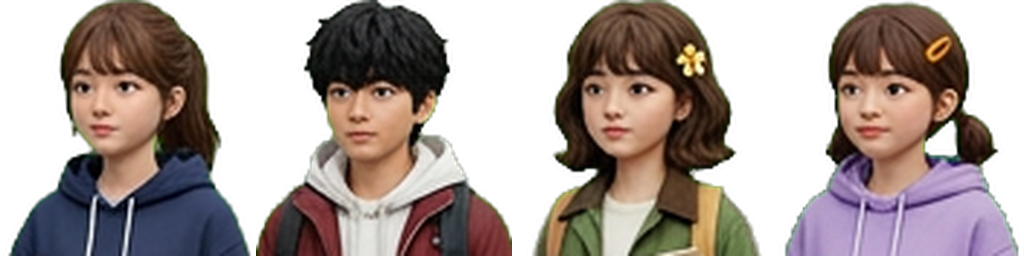
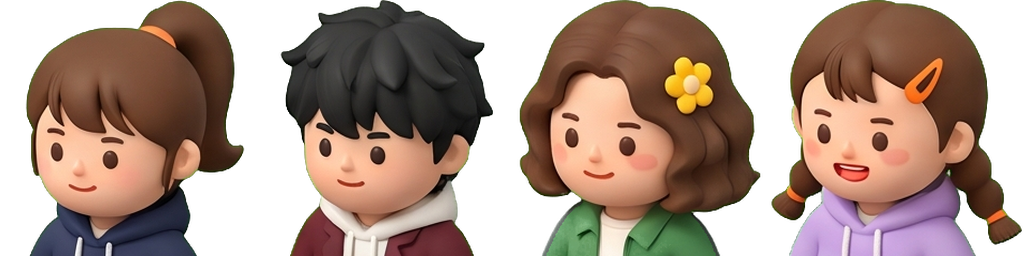
캐릭터 변경
캐릭터 변경

diff --git a/game.js b/game.js
@@ -25,14 +25,14 @@ function effect(id,x,y,size=56){const e=M.effects.effects[id];if(!e)return;const
 let soundOn=false,lastMiss=0;function sfx(id){if(!assets||!soundOn)return;if(id==='miss'){const n=Date.now();if(n-lastMiss<1500)return;lastMiss=n}assets.playSound(id)}
 
 /* ---------- 게임 전용 자산 (assets/) ---------- */
-const BOX={"residents":[[8,8,119,300],[143,8,93,300],[252,8,98,300],[366,8,113,300],[495,8,96,300],[607,8,173,300],[796,8,101,300],[913,8,113,300]],"buildings":[[12,12,300,217],[336,12,300,215],[660,12,300,231],[12,291,300,218],[336,291,300,229],[660,291,300,255]],"icons":[[12,12,198,200],[236,12,168,200],[460,12,200,126],[12,236,123,200],[236,236,200,137],[460,236,200,165],[12,460,200,170],[236,460,200,186],[460,460,200,123]],"helpers":[[8,8,119,360],[143,8,124,360],[283,8,116,360],[415,8,114,360]]};
-const SZ={"residents":[1034,316],"buildings":[972,558],"icons":[672,672],"helpers":[537,376]}; // 시트 크기(건물·아이콘은 Higgsfield 실사 그림)
+const BOX={"residents":[[8,8,156,300],[180,8,131,300],[327,8,131,300],[474,8,135,300],[625,8,139,300],[780,8,246,300],[1042,8,144,300],[1202,8,165,300]],"buildings":[[8,8,301,260],[325,8,305,260],[646,8,291,260],[953,8,294,260],[1263,8,305,260],[1584,8,244,260]],"icons":[[12,12,198,200],[236,12,168,200],[460,12,200,126],[12,236,123,200],[236,236,200,137],[460,236,200,165],[12,460,200,170],[236,460,200,186],[460,460,200,123]],"helpers":[[8,8,165,360],[189,8,156,360],[361,8,171,360],[548,8,178,360]]};
+const SZ={"residents":[1375,316],"buildings":[1836,276],"icons":[672,672],"helpers":[734,376]}; // 시트 크기(건물·아이콘은 Higgsfield 실사 그림)
 const SHEET={helpers:'assets/helpers.png',residents:'assets/residents.png',buildings:'assets/buildings.png',icons:'assets/game-icons.png'};
 const RES={elder:0,vn:1,np:2,deaf:3,phone:4,mine:5,chief:6,merchant:7},BLD={house:0,old:1,mine:2,hall:3,shelter:4,center:5},GIC={multi:0,light:1,chief:2,fast:3,sand:4,buddy:5,bc:6,goods:7,buoy:8};
 function artSvg(sheet,i,x,y,w,h,cls=''){const b=BOX[sheet][i];return `<svg class="${cls}" x="${x}" y="${y}" width="${w}" height="${h}" viewBox="${b.join(' ')}" preserveAspectRatio="xMidYMax meet"><image href="${SHEET[sheet]}" width="${SZ[sheet][0]}" height="${SZ[sheet][1]}"/></svg>`}
 function art(sheet,i,cls='gs-art'){const b=BOX[sheet][i];return `<svg class="${cls}" viewBox="${b.join(' ')}" preserveAspectRatio="xMidYMid meet" aria-hidden="true"><image href="${SHEET[sheet]}" width="${SZ[sheet][0]}" height="${SZ[sheet][1]}"/></svg>`}
 function pill(x,y,txt,fs=12,anchor='middle',bg='#1f2b26',op=.74){const w=Math.round([...String(txt)].length*fs*.95+fs*.9),x0=anchor==='middle'?x-w/2:x;return `<g class="pill"><rect x="${x0}" y="${y-fs*.85}" width="${w}" height="${fs*1.55}" rx="${fs*.78}" fill="${bg}" opacity="${op}"/><text x="${x0+w/2}" y="${y+fs*.32}" text-anchor="middle" font-size="${fs}" fill="#fff">${txt}</text></g>`}
-function tagOf(h){return (h.lang?(h.lang==='VN'?'베트남인':'네팔인'):'')||(h.t==='deaf'?'수어':h.t==='elder'?'어르신':'')}
+function tagOf(h){return (h.lang?(h.lang==='VN'?'베트남인':'네팔인'):'')||(h.t==='deaf'?'수어 필요':h.t==='elder'?'어르신':'')}
 function resOf(h){return h.t==='foreign'?(h.lang==='NP'?RES.np:RES.vn):RES[h.t]}
 function bldOf(h){return h.t==='mine'?BLD.mine:h.t==='elder'?BLD.old:BLD.house}
 function toast(t,ms=2400){$('toast').textContent=t;$('toast').hidden=false;clearTimeout(toast._t);toast._t=setTimeout(()=>$('toast').hidden=true,ms)}
@@ -93,8 +93,8 @@ function drawHouses(){$('houses').innerHTML=R.houses.map(h=>`<g class="house" id
  <ellipse class="glow" cx="0" cy="14" rx="66" ry="30" fill="url(#litG)" opacity="0"/><circle class="danger-ring" r="50" fill="none" stroke="#bf7865" stroke-width="5" stroke-dasharray="10 6"/>
  <rect class="base" x="-46" y="-50" width="92" height="80" fill="transparent"/>
  ${artSvg('buildings',bldOf(h),-46,-58,92,82,'bimg')}
- ${`<g class="rimg" filter="url(#ppl)"><ellipse cx="40" cy="23" rx="11" ry="3.2" fill="#000" opacity=".35"/>${artSvg('residents',resOf(h),26,-30,28,53)}</g>`}
- ${tagOf(h)?pill(58,-36,tagOf(h),11,'start'):''}
+ ${`<g class="rimg" filter="url(#ppl)"><ellipse cx="40" cy="23" rx="11" ry="3.2" fill="#000" opacity=".35"/>${artSvg('residents',resOf(h),24,-32,34,55)}</g>`}
+ ${tagOf(h)?pill(41,-41,tagOf(h),11):''}
  <g class="status" transform="translate(0,33)"></g>
  ${h.t==='mine'?`<g class="goods">${artSvg('icons',GIC.goods,-64,-20,30,30)}</g>`:''}
  </g>`).join('')}
